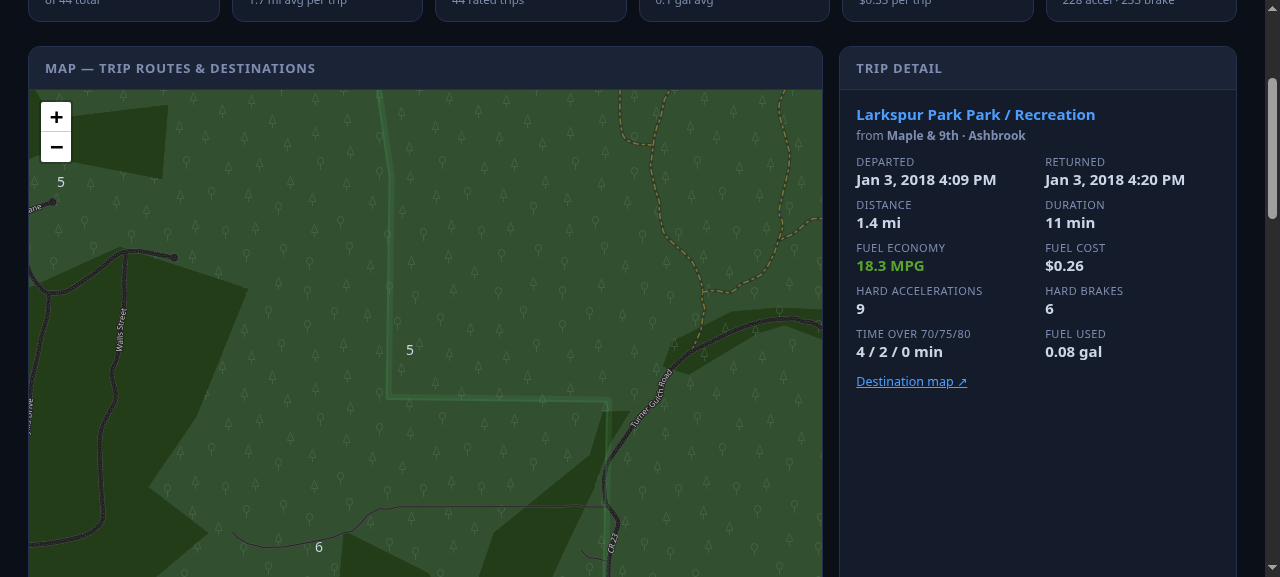
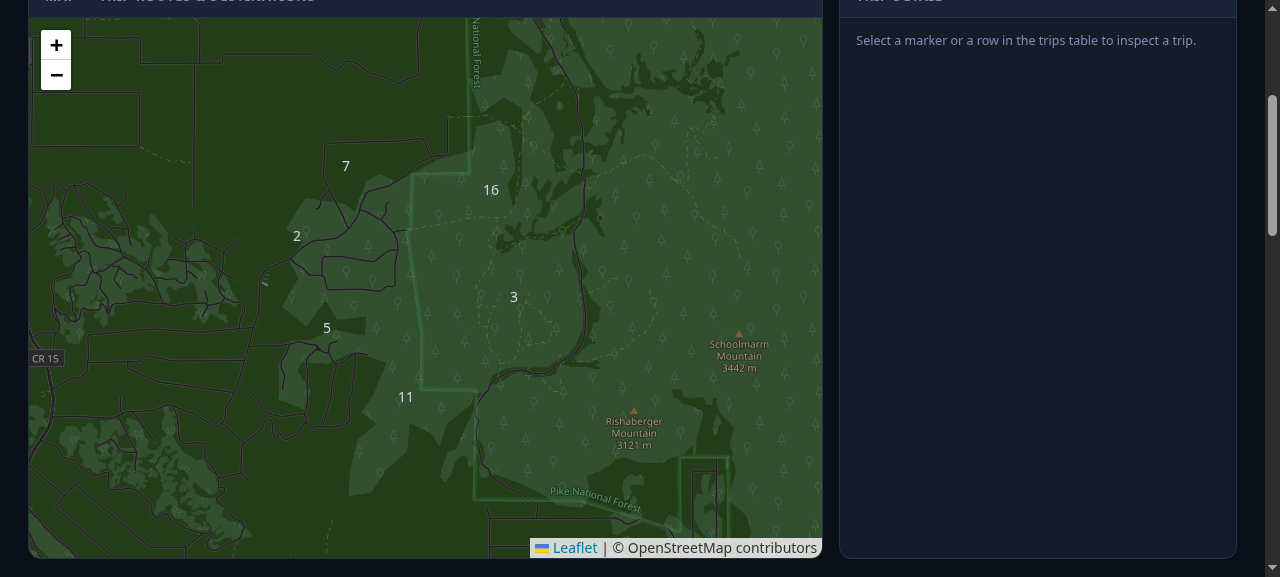
route casings for dark tiles; 2000 Explorer + story answers; fresh zoomed screenshots
- static/app.js: light casing polyline under each route — 3px colored lines
  were invisible on the inverted dark tiles at fit zoom
- README: 2000 Ford Explorer (handed down, family car), why the data caught
  me (fuel/miles first, destinations & frequency is what I kept reading)

diff --git a/static/app.js b/static/app.js
@@ -97,8 +97,12 @@
     if (showRoutes) {
       filtered.forEach((t) => {
         if (!t.route || t.route.length < 2) return;
-        L.polyline(t.route.map((p) => [p[1], p[0]]), {
-          color: mpgColor(t.mpg, lo, hi), weight: 3, opacity: 0.85,
+        const pts = t.route.map((p) => [p[1], p[0]]);
+        // Casing under the colored line: without it, a 3px route is
+        // invisible on the inverted dark tiles at map-fit zoom.
+        L.polyline(pts, { color: "#d8dde3", weight: 6, opacity: 0.55 }).addTo(routeLayer);
+        L.polyline(pts, {
+          color: mpgColor(t.mpg, lo, hi), weight: 3, opacity: 0.95,
         }).addTo(routeLayer)
           .bindTooltip(t.dest_label, { className: "sel-tip", direction: "top", sticky: true })
           .on("click", () => selectTrip(tripId(t), false));

diff --git a/README.md b/README.md
@@ -1,15 +1,16 @@
 # automaticVisualizer
 
-Back in high school I had an Automatic Pro installed in my 2017 Ford Explorer.
-It just quietly logged every trip I ever made — where I went, how hard I
+Back in high school I had an Automatic Pro installed in my 2000 Ford Explorer
+— the family car my dad handed down, the one my family had been in as long
+as I can remember. It just quietly logged every trip I ever made — where I went, how hard I
 braked, how many minutes I spent over 80 — and pushed each export up to a Google
 Drive folder. I forgot about it.
 
 Years later, after I'd picked up Python and the rest of the data-processing
 toolkit, I found that folder again. About eighteen months of *me*, in
-spreadsheets: how I actually drove, where I actually spent my time, reduced to
-numbers I could finally read back. So I built a dashboard for it — for a
-part of my life.
+spreadsheets. I'd installed it for fuel consumption and total miles — but
+the thing that kept me reading was the other half: where I'd actually gone,
+and how often I'd kept going there. So I built a dashboard for that.
 
 What you're looking at is that dashboard, running on **synthetic sample
 data**. The real trips stay in that Drive folder; this repo ships a seeded,
